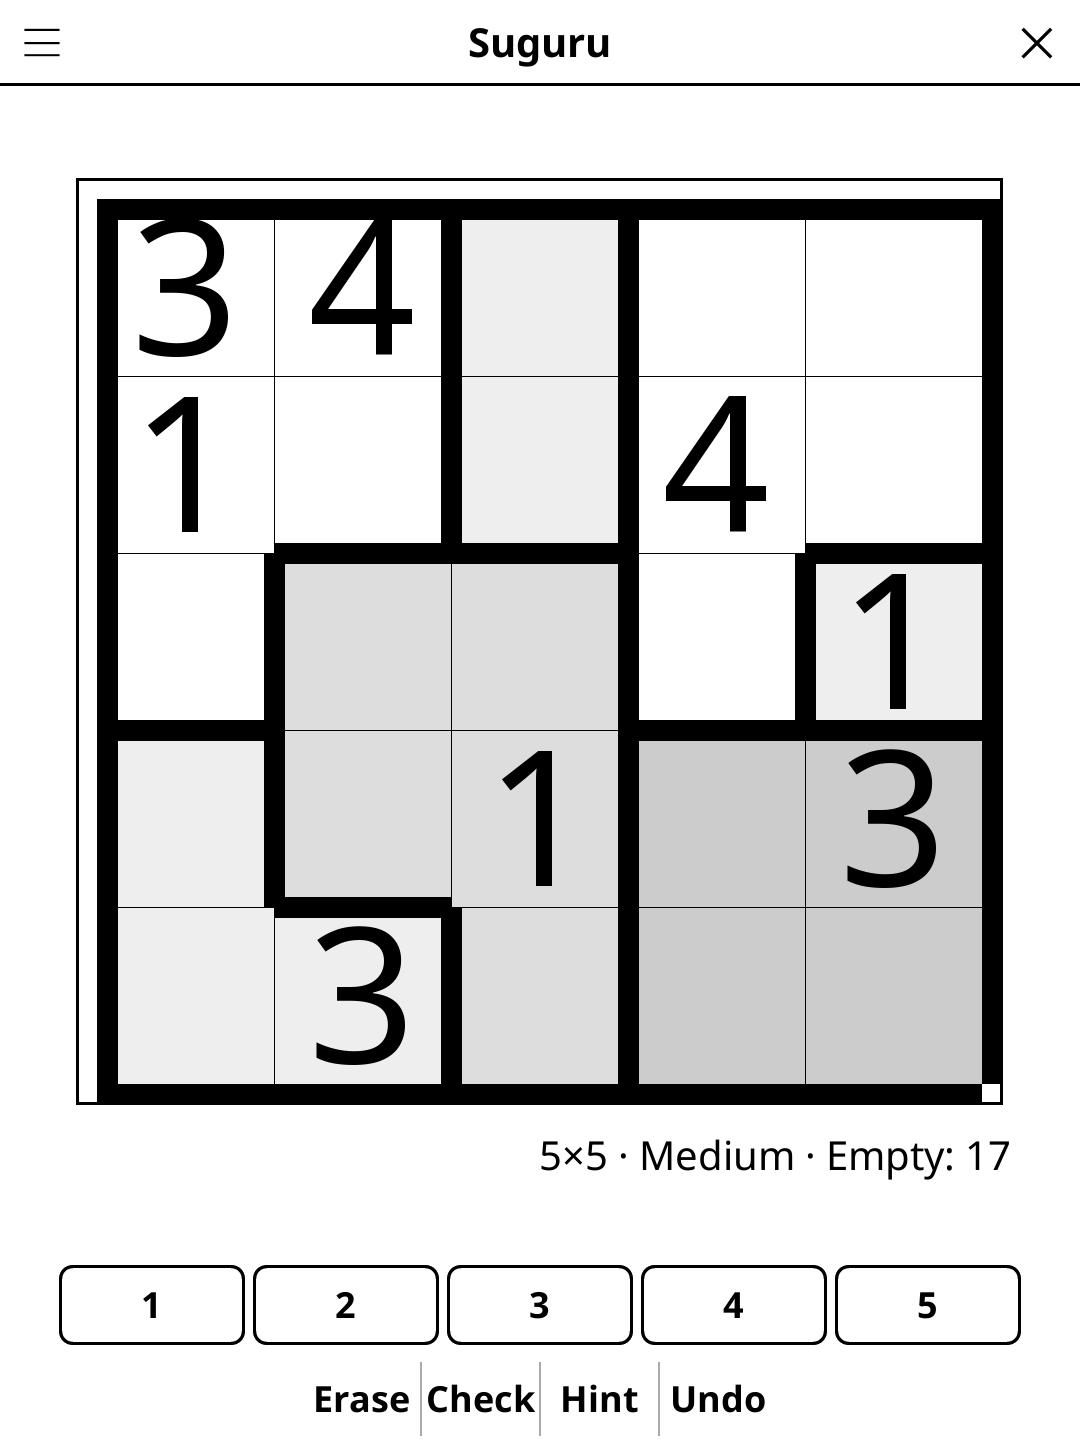
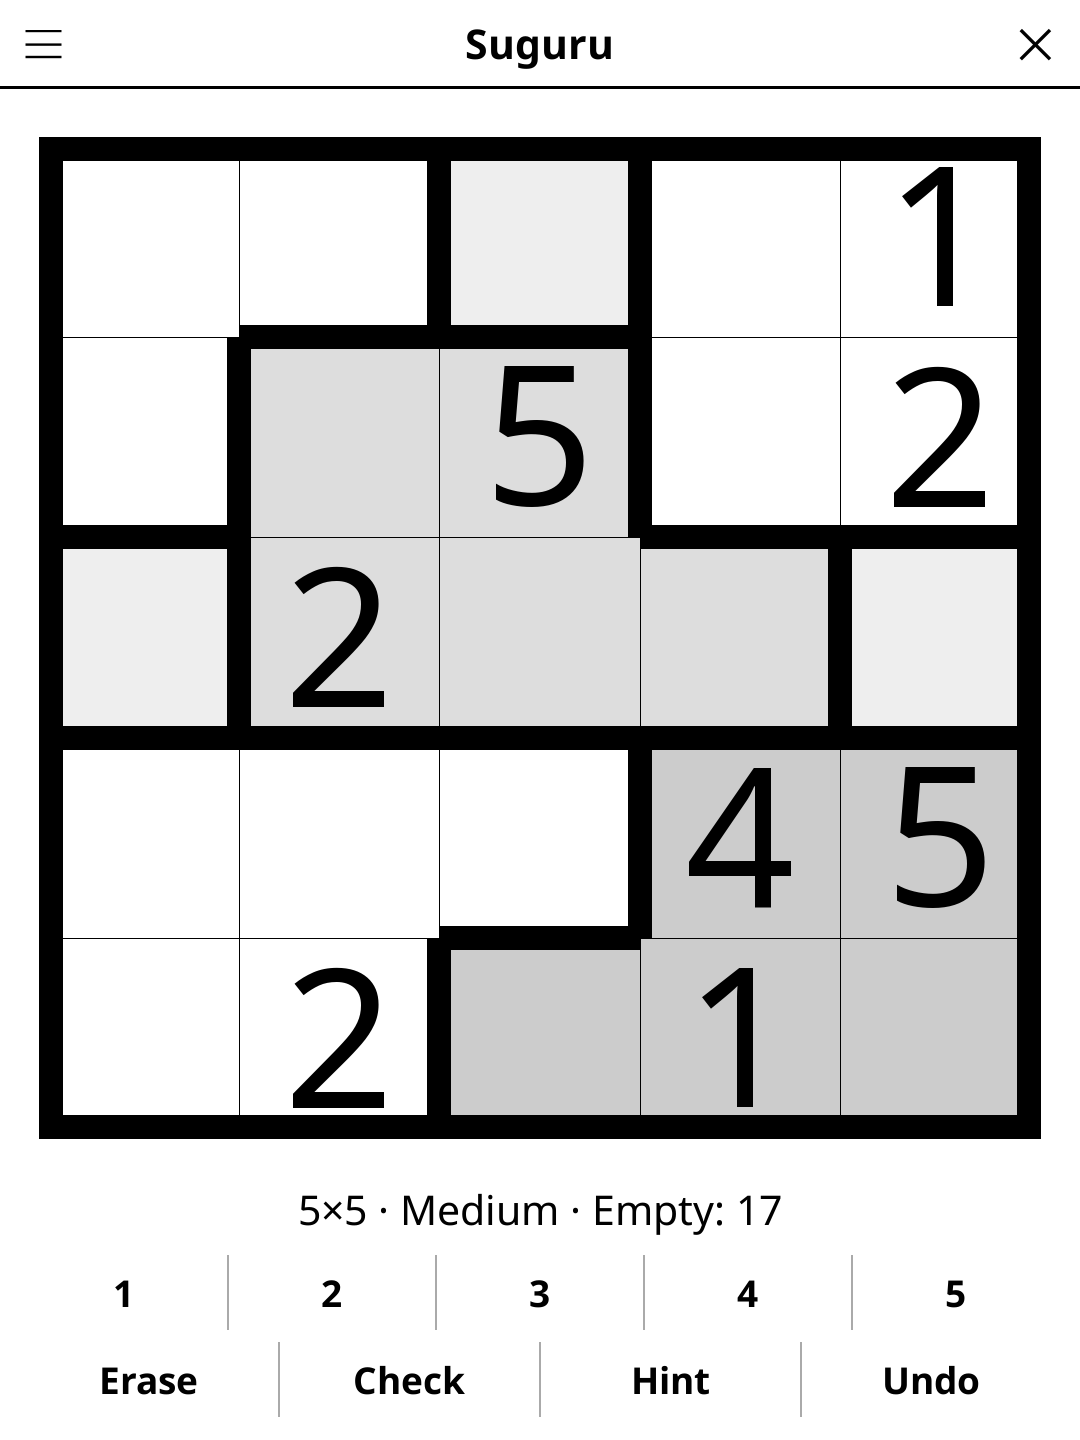
release: 1.3.0 -- redesigned screen, harmonised menu, New game at round end
Screen redesign (full-width action bar, unified pad, status line, larger
board), harmonised title-bar menu, and a "New game" button once the round
is over. See CHANGELOG.md.

diff --git a/CHANGELOG.md b/CHANGELOG.md
@@ -2,6 +2,26 @@
 
 All notable changes to this project will be documented in this file.
 
+## [1.3.0] - 2026-10-30
+
+### Changed
+- Redesigned play screen: the board is larger, filling the room the controls
+  leave, with one even digit pad and a full-width action bar under the status
+  line.
+- The status line reads "6×6 · Medium · Empty: 12" and wraps in landscape
+  instead of being cut off. How to fill and clear a cell is now in the rules.
+- The title-bar menu shows "Difficulty: …" (was "Diff: …"), like every other
+  game.
+- Once the puzzle is solved, the action bar shows "New game" in place of
+  Erase/Check/Hint/Undo, so the next round no longer needs the menu.
+
+### Fixed
+- Digits overflowed their cells: the shared font fit accepted every size.
+  They now fit the cell on every screen.
+- The grid's right and bottom border lines were drawn past the board's edge.
+- Using a hint wiped the saved game; it is now kept. When a hint fills the
+  last cell, the status shows the win message.
+
 ## [1.2.2] - 2026-10-07
 
 ### Fixed

diff --git a/README.md b/README.md
@@ -34,7 +34,7 @@ Fill every cell so each outlined group of size N contains 1–N exactly once. Id
 | Enter a number | Tap the digit button |
 | Erase a cell | Tap **Erase** |
 | Check progress | Tap **Check** |
-| New puzzle | Tap **New** |
+| New puzzle | Tap **New game** |
 | Show rules | Tap **Rules** |
 
 ## License
